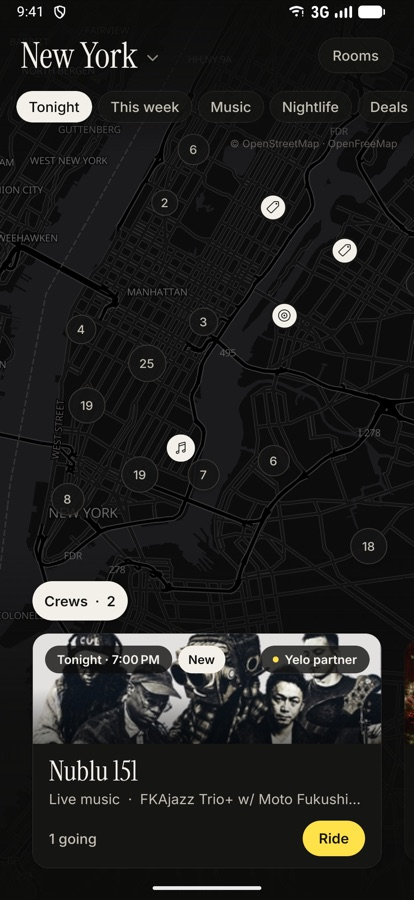
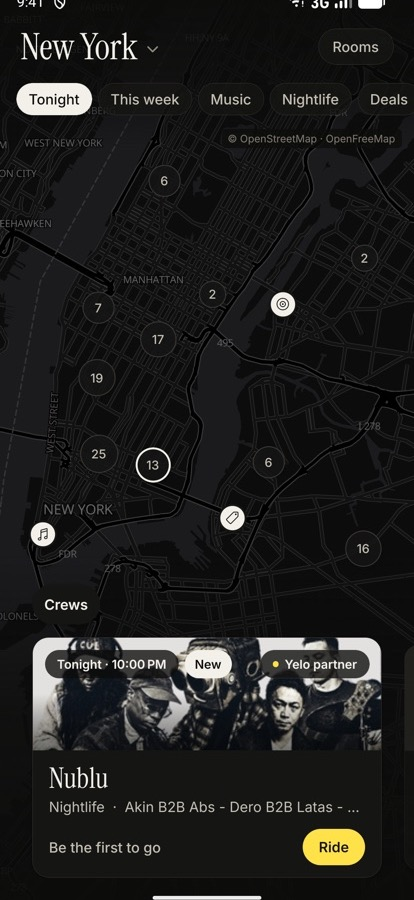
Download page hero: current New York screen

diff --git a/site/index.html b/site/index.html
@@ -156,7 +156,7 @@
       </div>
     </div>
 
-    <div class="phone"><img src="shot-map.jpg" alt="Scout's home screen: New York at night, five filters, and a card for Nublu 151, a Yelo partner, tonight at 7 PM, marked New" width="414" height="900"></div>
+    <div class="phone"><img src="shot-map.jpg" alt="Scout's home screen: New York tonight, five filters, numbered bubbles across Manhattan, and a card for Nublu, a Yelo partner, tonight at 10 PM, marked New" width="414" height="900"></div>
   </div>
 
   <section aria-labelledby="inside">
